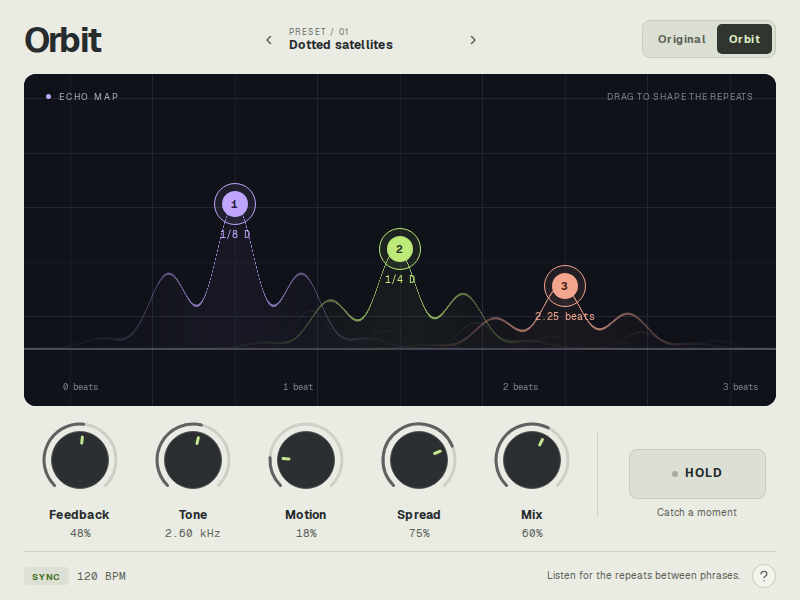
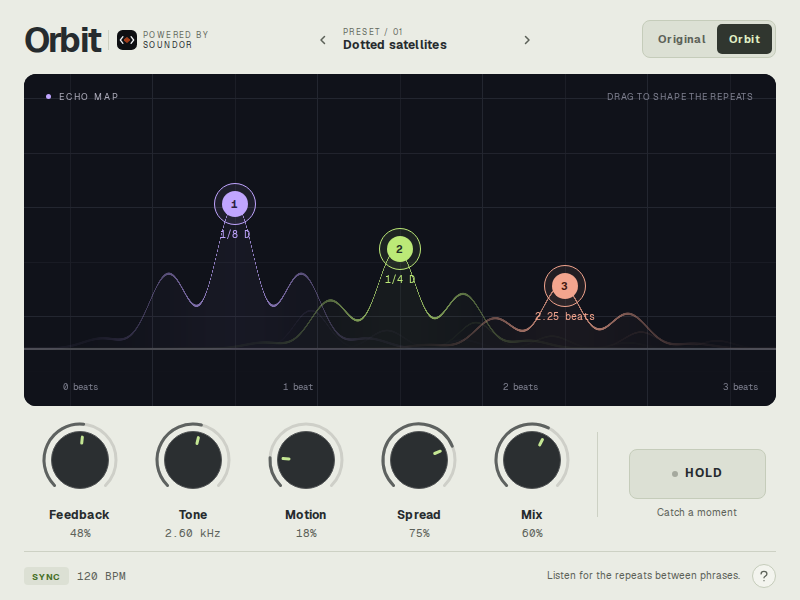
feat: show that Orbit is powered by Soundor
Soundor's icon and "Powered by Soundor" beside the wordmark, drawn with
@soundor/react/svg, and the README's preview updated.

Changed region(s): [[0.3438, 0.03, 0.5625, 0.09], [0.125, 0.03, 0.25, 0.09]]

diff --git a/apps/plugin/src/PoweredBy.tsx b/apps/plugin/src/PoweredBy.tsx
@@ -1,0 +1,55 @@
+import { textStyle, useTheme } from '@soundor/components/theme';
+import { Text, View } from '@soundor/react';
+import { G, Line, Polyline, Rect, Svg } from '@soundor/react/svg';
+
+/** Soundor's icon (assets/brand/soundor-icon.svg in soundor/soundor). */
+function SoundorIcon({ size }: { readonly size: number }) {
+  return (
+    <Svg
+      width={size}
+      height={size}
+      viewBox="6 6 108 108"
+      accessible={false}
+      style={{ pointerEvents: 'none' }}
+    >
+      <Rect x={6} y={6} width={108} height={108} rx={30} fill="#0E0F12" />
+      <G fill="none" strokeLinecap="round" strokeLinejoin="round">
+        <Polyline points="38,42 24,60 38,78" stroke="#F2F4F7" strokeWidth={7} />
+        <Polyline points="82,42 96,60 82,78" stroke="#F2F4F7" strokeWidth={7} />
+        <G stroke="#FF5A1F" strokeWidth={4.5}>
+          <Line x1={48} y1={64} x2={48} y2={56} />
+          <Line x1={54} y1={69} x2={54} y2={51} />
+          <Line x1={60} y1={74} x2={60} y2={46} />
+          <Line x1={66} y1={68} x2={66} y2={52} />
+          <Line x1={72} y1={63} x2={72} y2={57} />
+        </G>
+      </G>
+    </Svg>
+  );
+}
+
+/** Beside the wordmark: what Orbit is built with. */
+export function PoweredBy() {
+  const theme = useTheme();
+  const c = theme.color;
+  return (
+    <View
+      accessible
+      accessibilityLabel="Powered by Soundor"
+      style={{
+        flexDirection: 'row',
+        alignItems: 'center',
+        gap: theme.spacing.spaceSm,
+        paddingLeft: theme.spacing.spaceMd,
+        borderLeftWidth: theme.size.borderHairline,
+        borderColor: c.divider,
+      }}
+    >
+      <SoundorIcon size={20} />
+      <View style={{ gap: 1 }}>
+        <Text style={textStyle(theme, 'technical')}>POWERED BY</Text>
+        <Text style={textStyle(theme, 'technical', c.text)}>SOUNDOR</Text>
+      </View>
+    </View>
+  );
+}

diff --git a/apps/plugin/src/App.tsx b/apps/plugin/src/App.tsx
@@ -25,6 +25,7 @@ import { state } from 'soundor:state';
 
 import { EchoField } from './EchoField';
 import { HelpGuide } from './HelpGuide';
+import { PoweredBy } from './PoweredBy';
 
 const compare: readonly SegmentOption<'original' | 'processed'>[] = [
   {
@@ -127,7 +128,16 @@ export function App() {
           justifyContent: 'space-between',
         }}
       >
-        <Text style={textStyle(theme, 'display')}>Orbit</Text>
+        <View
+          style={{
+            flexDirection: 'row',
+            alignItems: 'center',
+            gap: theme.spacing.spaceMd,
+          }}
+        >
+          <Text style={textStyle(theme, 'display')}>Orbit</Text>
+          <PoweredBy />
+        </View>
         <View
           style={{
             flexDirection: 'row',
